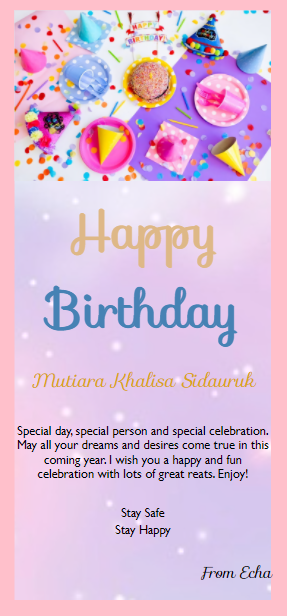
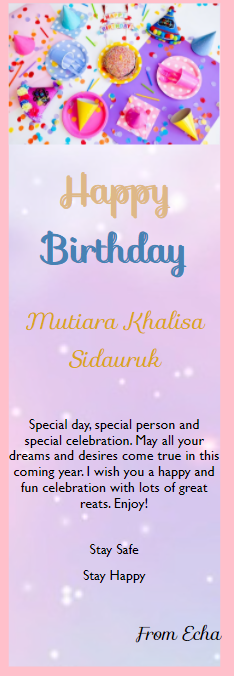
frontend 1

diff --git a/styles.css b/styles.css
@@ -3,7 +3,7 @@ html{
 }
 
 .container{
-    padding: 50px 100px;
+    padding: 0px 50px;
 }
 
 .general{
@@ -24,20 +24,20 @@ html{
 
 .T1{
     color: #DEB887;
-    font-size: 80px;
+    font-size: 40px;
     text-shadow: 2px 2px;
 }
 
 .T2{
     color: 	steelblue;
-    font-size: 80px;
+    font-size: 40px;
     text-shadow: 2px 2px;
 }
 
 .name{
     text-align: center;
     color: #DAA520;
-    font-size: 30px;
+    font-size: 25px;
     font-style: italic;
 }
 
@@ -56,7 +56,7 @@ html{
 .body{
     text-align: center;
     font-family: 'Gill Sans', 'Gill Sans MT', Calibri, 'Trebuchet MS', sans-serif; 
-    font-size: 20px;
+    font-size: 15px;
 }
 
 .message{
@@ -64,13 +64,13 @@ html{
     grid-template-rows: 12px 15px 35px;
     justify-items: center;
     font-family: 'Gill Sans', 'Gill Sans MT', Calibri, 'Trebuchet MS', sans-serif; 
-    font-size: 20px;
+    font-size: 15px;
 }
 
 .from{
     text-align: right;
     font-family: "Sofia", sans-serif;
-    font-size: 25px;
+    font-size: 20px;
     font-style: italic;
 }
 
@@ -78,16 +78,37 @@ html{
     .general{
         flex-direction: row;
     }
+
+    .container{
+        padding: 0px 50px;
+    }
     
     .T1{
         color: #DEB887;
-        font-size: 45px;
+        font-size: 80px;
         text-shadow: 2px 2px;
     }
     
     .T2{
         color: 	steelblue;
-        font-size: 45px;
+        font-size: 80px;
         text-shadow: 2px 2px;
+    }
+
+    .name{
+        font-size: 35px;
+    }
+
+    .body{
+        font-size: 20px;
+    }
+    
+    .message{
+        font-size: 20px;
+    }
+    
+    .from{
+        font-size: 25px;
+
     }
 }
